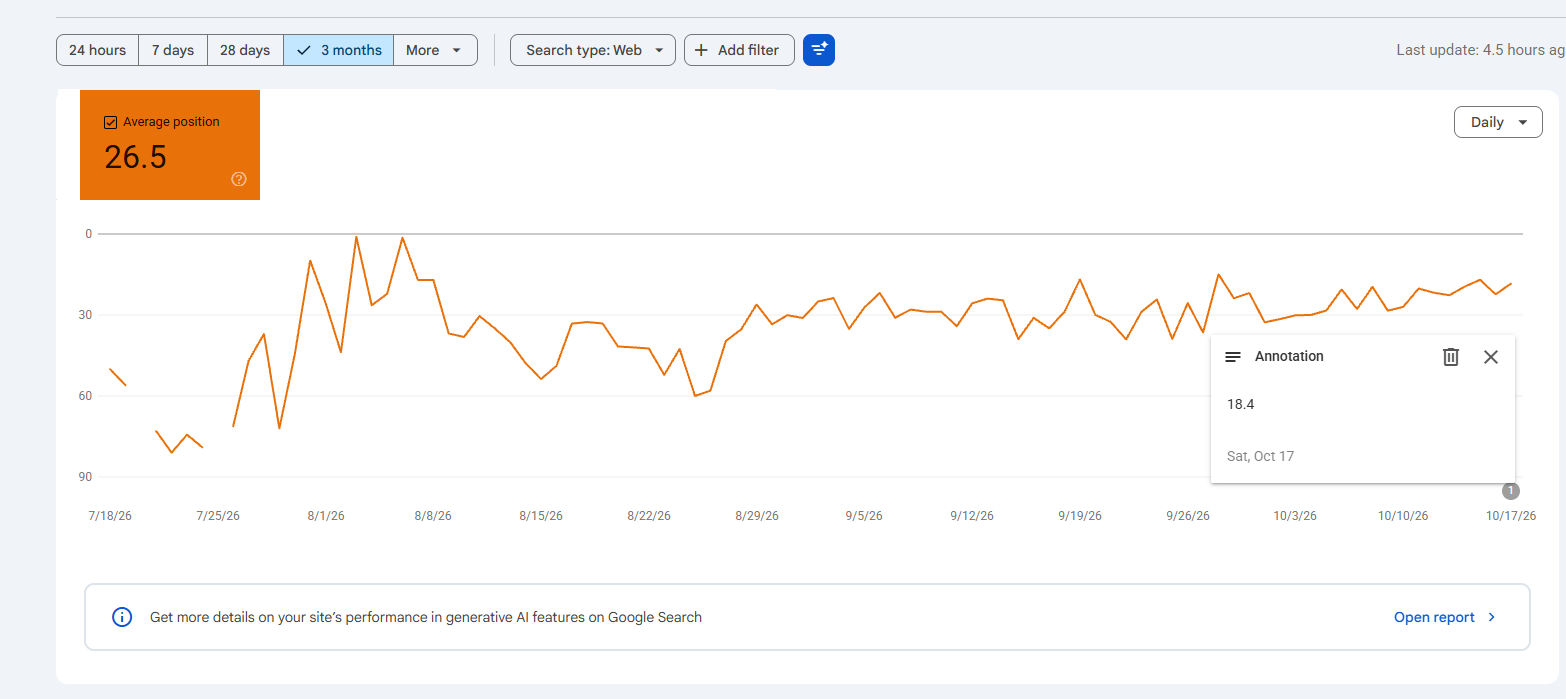
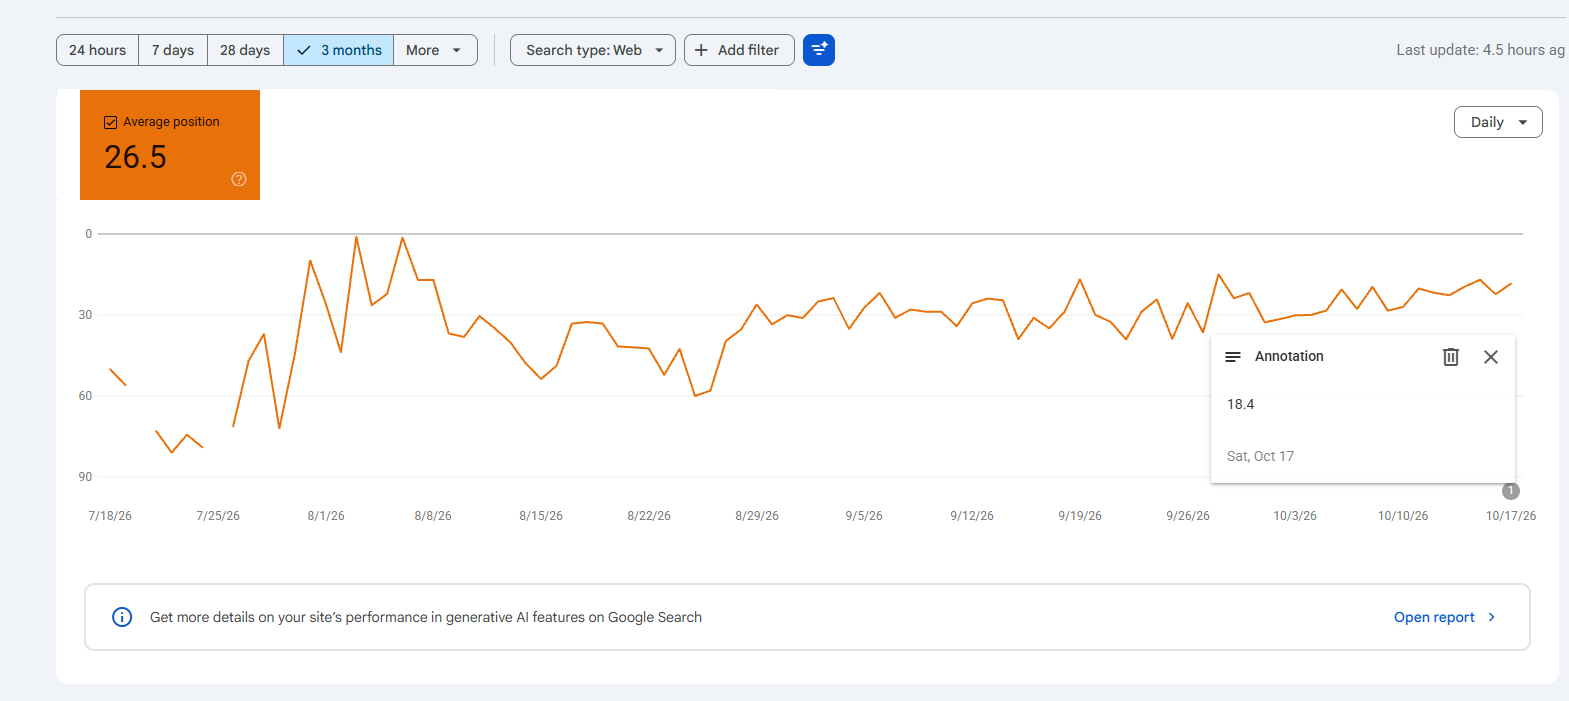
Case study: synced Search Console charts with matching frames

diff --git a/src/views/case-study.tsx b/src/views/case-study.tsx
@@ -22,10 +22,10 @@ export function CaseStudyView({ locale }: { locale: Locale }) {
       <GrowthFlow locale={locale} />
       <div className="case-figures-heading"><p className="case-eyebrow">Google Search Console</p><h2>{t("Evoluția urmărită: poziția medie în Google pe 28 de zile și pe 3 luni", "Tracked evolution: average Google position over 28 days and 3 months")}</h2><p>{t("Măsurat zilnic, organic, fără publicitate plătită. Ultima actualizare: 17 octombrie 2026.", "Measured daily, organically, without paid advertising. Last update: 17 October 2026.")}</p></div>
       <div className="case-figures case-figures-gsc">
-        <ZoomFigure src="/assets/case-study-gsc-3-months.png" width={1566} height={699} zoomLabel={t("Mărește graficul", "Zoom the chart")}
+        <ZoomFigure src="/assets/case-study-gsc-3-months.png" width={1569} height={701} zoomLabel={t("Mărește graficul", "Zoom the chart")}
           alt={t("Google Search Console, poziția medie zilnică pe 3 luni: pornire de la 60–75 în iulie, indexare dificilă în august, apoi urcare constantă până la 18,4", "Google Search Console, daily average position over 3 months: start at 60–75 in July, rough indexing in August, then a steady climb to 18.4")}
           caption={t("Trei luni, 18 iulie – 17 octombrie 2026: pornire de la 60–75 la lansare, indexare dificilă în august, apoi urcare constantă. Media perioadei: 26,5.", "Three months, 18 July – 17 October 2026: start at 60–75 at launch, rough indexing in August, then a steady climb. Period average: 26.5.")} />
-        <ZoomFigure src="/assets/case-study-gsc-28-days.png" width={1552} height={693} zoomLabel={t("Mărește graficul", "Zoom the chart")}
+        <ZoomFigure src="/assets/case-study-gsc-28-days.png" width={1569} height={701} zoomLabel={t("Mărește graficul", "Zoom the chart")}
           alt={t("Google Search Console, poziția medie zilnică în ultimele 28 de zile: urcă de la peste 30 la 18,4 pe 17 octombrie 2026", "Google Search Console, daily average position over the last 28 days: climbs from above 30 to 18.4 on 17 October 2026")}
           caption={t("Ultimele 28 de zile, 20 septembrie – 17 octombrie 2026: de la peste 30 la 18,4. Media perioadei: 24,1.", "Last 28 days, 20 September – 17 October 2026: from above 30 to 18.4. Period average: 24.1.")} />
       </div>
